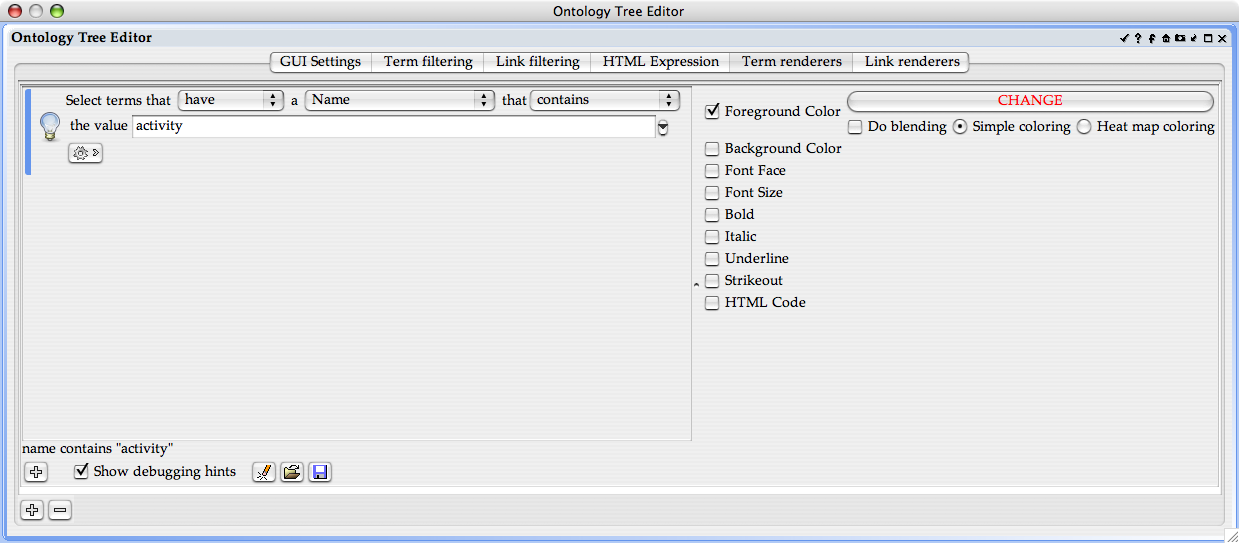
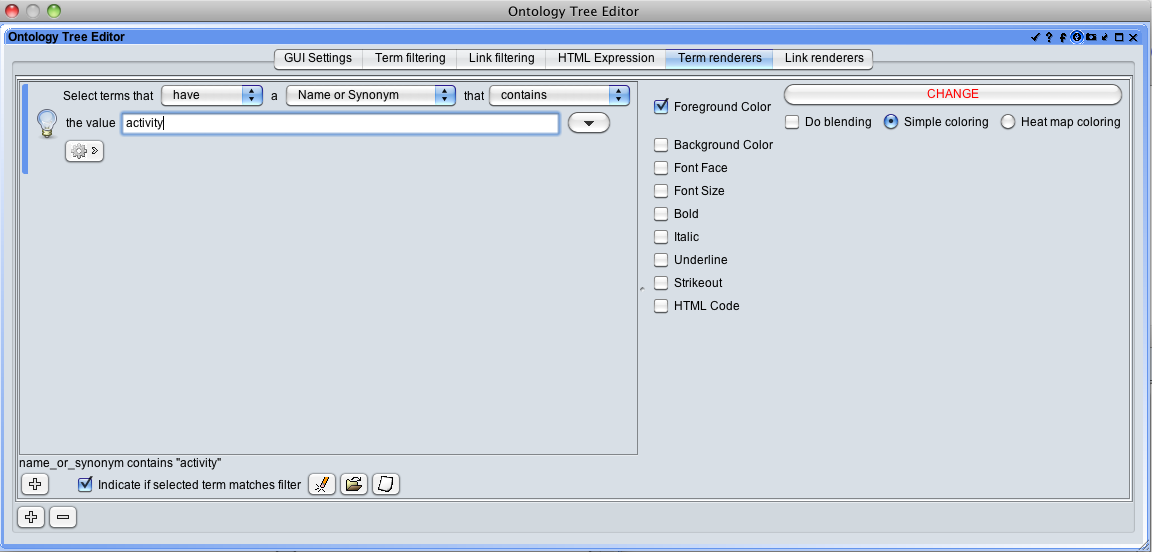
Updates to user guide: - Added user guide page on "Color-coding Multiple Ontologies in the Graph Editor". - Merged redundant "Reasoner Manager" page into "The Reasoner and the Interface" - Added warning about the reasoner and memory; removed descriptions of obsolete reasoners
git-svn-id: svn://svn.code.sf.net/p/geneontology/svn/java/oboedit/trunk@3469 6f0e8829-b336-0410-acfb-cb9b228023ad

Changed region(s): [[0.0, 0.0, 1.0, 1.0]]

diff --git a/docs/html/Configuration_Manager.htm b/docs/html/Configuration_Manager.htm
@@ -24,34 +24,9 @@ is "User Settings".</p>
   <li><strong>Configuration directory</strong> - 
   Displays the path to the OS-appropriate directory that contains your personal OBO-Edit 
   configuration info. This field is not editable; it is for
-  informational purposes only.  You can mouse-select it and copy it to your
-  clipboard to copy elsewhere, if you want.
-<ul><li>
-  <b>Note for Mac users</b>:  your configuration directory will be in
-  ~/Library/Application Support/, e.g., /users/nomi/Library/Application Support/.
-  Because that directory name has a space in it, if you are trying to use it in a shell
-  command (e.g., cd), you will need
-  to put quotes around that path:
-  <code>cd "/users/nomi/Library/Application Support"</code>.
-</li>
-<li><b>Note for Windows XP users</b>:  your configuration directory will be in
-Application Data\OBO-Edit-beta in your home directory.  By default, Windows
-      hides this directory from you.  If you are looking at your Windows
-      directories in Explorer (the usual Windows directory browser), you can
-      get it to show the hidden directories by choosing "Folder Options" from
-      the Tools menu, and selecting the "View" tab.  Under "Advanced
-      settings", select the "Show hidden files and folders" radio button.<br>You
-      can also get to your configuration directory via the Windows command
-      interface by copying and pasting it from the Configuration Manager, and
-      putting quotes around the path because of the spaces in it.
-</li>
-<li><b>Note for Unix users</b>: your configuration directory will be in
-  ~/.oboeditbeta.  If you do "ls ~", you won't see it because file or
-  directory names that start with "."  are
-  hidden by default.  Use "ls -a" if you want to see it in the directory listing.
-</li>
-</ul>    
-  <li><strong>Log file</strong> - The text output from OBO-Edit is saved in
+  informational purposes only.  You can mouse-select the directory path and copy it to your
+  clipboard to paste elsewhere, if you want.
+<li><strong>Log file</strong> - The text output from OBO-Edit is saved in
   this file in your configuration directory.  It can be useful for debugging.
   This field is not editable, but can be copied and pasted elsewhere.</li>
   <li><strong>OBO-Edit memory allocation</strong> (requires restart) - 
@@ -60,9 +35,12 @@ Application Data\OBO-Edit-beta in your home directory.  By default, Windows
   letter M, indicating the number of megabytes of memory that should be 
   allocated. A high value will make OBO-Edit less likely to run out of memory and 
   crash, but will also lessen the amount of memory available to 
-  other programs and may cause OBO-Edit to run slower on some platforms. 
+  other programs and may cause OBO-Edit to run slower on some platforms. On
+  most computers, Java limits the maximum memory allocation to 1860M, so you
+  should generally choose a value lower than that.
   </li>
-  <li><strong>User name</strong> - The user name OBO-Edit should use. This 
+  <li><strong>User name</strong> - The user name OBO-Edit should use when
+  saving your edits. This 
   information is used in the "saved-by" header field when using the <A 
   href="The_OBO_Adapter.htm">OBO adapter</a>.</li>
 </ul>
@@ -88,7 +66,9 @@ relationship type from the list. The icon association editor will appear:</p>
 </p><p><IMG hspace=0 src="../images/config_icons_and_colors.png" border=0></p>
 <p>To pick an image file from the local disk, press the "Browse 
 files" button. To use one of OBO-Edit's built-in icons, press the "Browse 
-built-in icons" button.  The "Icon URL" box will get filled in automatically.</p>
+built-in icons" button.  (Note: it takes a few seconds for OBO-Edit to find
+  and display all the built-in icons.) The "Icon URL" box will get filled in automatically
+  when you choose one of the icons.</p>
 <p>To delete a relationship type icon association, left-click the association 
 and press the "Del" button.</p>
 <p>To add a new relationship type icon association, press the "Add" button. A 
@@ -108,7 +88,7 @@ The new id for <strong>is_a</strong> is <strong>OBO_REL:is_a</strong>.</p>
 </div>
 
 <h3>Changing link color</h3>
-<p>Below the "Browse" buttons is the text "Link color", and the name of the color (e.g. "blue").
+<p>Below the "Browse" buttons is the text "Link color" and the name of the color (e.g., "blue").
 Click on the color name to pop up a color chooser and select a new color for links
 of that particular relationship type.
 As when you select a new icon, the OBO-Edit
@@ -117,8 +97,8 @@ something that changes the display (e.g., click open a node).</p>
 
 <h2>Autosave</h2>
 <ul>
-  <li><strong>Enable autosave</strong> - If this box is checked, autosave will 
-  be enabled. The ontology will be saved periodically in the autosave file
+  <li><strong>Enable autosave</strong> - If this box is checked, OBO-Edit will
+  automatically save backup copies of your work. Your edited ontology will be saved periodically in the autosave file
   path (see next item).  The default is for autosave
   to be enabled; you can turn this off if you prefer.
   <li><strong>Autosave file path</strong> -&nbsp;This&nbsp;field specifies&nbsp;a directory where autosave 
@@ -127,17 +107,24 @@ something that changes the display (e.g., click open a node).</p>
   <li><strong>Autosave files expire in </strong>- The number of days old an 
   autosave file must be before it is automatically deleted.</li>
 </ul>
-<h2><a name="textedit"></a>Text Editing</h2>
 
 <h2>Behavior</h2>
 <ul>
+  <li><strong>Exclude obsolete terms from autocomplete lists</strong> - When
+  you start typing in a search or filter box, a dropdown list of term names
+  appears, including terms (or relations) that include the text you've typed
+  so far.  By default, this list includes terms that have been marked as
+  obsolete.  If you prefer to exclude obsolete terms, check this checkbox.
+  The downside is that the autocomplete lists will take slightly longer to
+  appear (because OBO-Edit has to do extra work, checking each term to see
+  whether it's obsolete or not). </li>
   <li><strong>Case sensitive term sorting</strong> - If this box is checked, the case of a term name will be 
   taken into account when sorting terms. Lower case letters will appear before 
-  upper case letters. 
+  upper case letters. </li>
   <li><strong>Show terms ids as tool tips in term panels</strong> - If this box 
   is checked, the id of a term will appear if the mouse hovers over a term in 
   the <A href="The_Term_Editor_Panel.htm">ontology editor panel</a>. Enabling this feature will make OBO-Edit run slightly slower 
-  on older machines. 
+  on older machines. </li> 
   <li><strong>Allow new cycles to be created</strong> - If this box is checked, OBO-Edit will allow cycles to be 
   created. If it is not checked, OBO-Edit will refuse to allow new cycles to be 
   made. Only enable this option if an ontology requires cycles. Most do not. See 
@@ -161,9 +148,9 @@ something that changes the display (e.g., click open a node).</p>
   <li><strong>Confirm on exit</strong>- If this 
   box is checked, OBO-Edit will ask for confirmation before exiting.</li></ul>
 </ul>
-
+<h2><a name="textedit"></a>Text Editing</h2>
 <ul>
-  <li><strong>Auto commit text edits</strong> - If this box 
+  <li><strong>Autocommit text edits</strong> - If this box 
   is checked, OBO-Edit commits text edits as soon as a new term is selected or 
   the ontology is saved. The user does not have to explicitly commit text edits 
   by pressing a "commit" button.

diff --git a/docs/html/Color_by_Namespace.htm b/docs/html/Color_by_Namespace.htm
@@ -1,0 +1,51 @@
+<!DOCTYPE html PUBLIC "-//W3C//DTD html 3.2//EN">
+<html>
+<head>
+<title></title>
+<link rel="stylesheet" type="text/css" href="../javahelp.css">
+</head>
+<body bgcolor="#ffffff">
+<h1>Color-coding Multiple Ontologies in the Graph Editor</h1>
+<p>Editing an ontology can become confusing when terms from
+other ontologies are referenced. Term names may be similar between ontologies, which can lead to
+inadvertent associations, and 
+it can difficult to distinguish in a graph which term is associated with which ontology. Fortunately, it is possible to use the Term renderers configuration panel
+to color-code the different ontologies in the Graph Editor. The following steps describe how to do this.</p>
+<ol>
+<li> Load an ontology that contains terms from multiple ontologies.</li>
+<li> On the Graph Editor panel, click the wrench icon in the titlebar to open
+the Configure panel.</li>
+<li> Scroll through the tabs with the right arrow button to get to the Term renderers tab.</li>
+<li> Click the + button at the bottom of the panel to create a
+new renderer.</li>
+<li> A filter pops up that looks very similar to the search
+filter.  You might have to expand or maximize the panel to see all the fields.  You may also need to drag the central vertical line to the right to see all the term renderer fields on the left.</li>
+<li> Set the filter to select
+terms that have a namespace that equals the value [insert namespace of
+an ontology].</li>
+<li> Choose "Background Color" on the right side of the panel.</li>
+Your panel should now look like this:
+<P><IMG hspace=0 src="../images/color-by-namespace-term-renderer.png" border=0></P><br />
+<li> Click "Change". A color chooser pops up.  Choose the desired color for this namespace and click the "OK" button.  The color chooser will go away.</li>
+<li> To add another renderer to color-code another ontology, click the + button at the BOTTOM of the panel--the one next to the minus button, NOT the one that's to the left of the checkbox for "Indicate if selected term matches filter".
+<P><IMG hspace=0 src="../images/color-by-namespace-second-term-renderer.png" border=0></P><br />
+<li> When you are done adding a color renderer for each namespace, click the 
+check icon on the right side of the panel's menubar.</li>
+<li> You may need to close the nodes in the Graph Editor (use the right-mouse menu option to Hide all nodes) and reopen them to see the colors.</li>
+</ol>
+<p>
+Here is an example of the Graph Editor showing part of the Gene Ontology colored by namespace (pink for biological_process, green for molecular_function, and blue for cellular_component).</p>
+<P><IMG hspace=0 src="../images/colored-by-namespace.png" border=0></P>
+<p>There are a few things to
+note. OBO-Edit automatically
+assigns the default namespace to ontology terms MIREOTed when they lack an
+assigned namespace. An ontology
+engineer may have to manually assign a new namespace to these terms.  An ontology engineer should also be
+careful when assigning colors to namespaces. Ontology engineers are
+encouraged to consult online resources in choosing color schemes that are
+easily distinguishable and reproduce well both in print and on a computer
+screen.   If done properly, publication-quality figures can be generated with
+OBO-Edit.</p>
+<p>Renderers are set up per component, so if you want to color terms by namespace in the Ontology Tree Editor as well as the Graph Editor, you will need to set up a renderer in the Ontology Tree Editor as well (in the same fashion as described above).  Also note that you can set up term renderers in the Graph Editor but not in the Graph Viewer.
+</body>
+</html>

diff --git a/docs/html/The_Reasoner_Manager.htm b/docs/html/The_Reasoner_Manager.htm
@@ -2,7 +2,7 @@
 <html>
 <head>
 <meta name="GENERATOR" content="Solutionsoft HelpBreeze JavaHelp Edition">
-<title>The Reasoner Plugin</title>
+<title>The Reasoner Manager</title>
 <link rel="stylesheet" type="text/css" href="../javahelp.css">
 </head>
 <body bgcolor="#ffffff">
@@ -10,27 +10,26 @@
 <p>The reasoner is activated and deactivated via the 
 Reasoner Manager.
 You can turn on the reasoner in OBO-Edit by showing the Reasoner Manager ([Reasoner] -> [Reasoner Manager]) and selecting a reasoner from the
-pulldown list.  (Once you make your choice, you can get rid of the Reasoner Manager panel
-and the reasoner selection will stay as you left it.)
-<p>OBO-Edit offers a choice of reasoners.  The current options are
-  ForwardChainingReasoner and LinkPileReasoner.  ForwardChainingReasoner,
-  which was the default reasoner in OBO-Edit before March 2008, is faster but
-  not as complete, and will be phased out.
-LinkPileReasoner is currently
-  very slow, but more complete.
-</P><P>
+pulldown list.  Once you make your choice, you can get rid of the Reasoner Manager panel
+and the reasoner selection will stay as you left it. However, because the
+reasoner uses so much memory, it is generally a good idea to turn it on only
+when you really need it, and turn it off when you're done.  Be sure to save your work
+<b>before</b> you turn on the reasoner, in case OBO-Edit runs out of memory
+and dies.
+<P>
 <div class="sidebar">
 <h1>Wait... Did I Leave the Reasoner On?</h1>
 <hr>
 
-<p>     Like most components, the Reasoner Manager remembers its state when OBO-Edit is exited. This 
+<p>Like most OBO-Edit components, the Reasoner Manager remembers its state when OBO-Edit is exited. This 
 means that if the reasoner is on when you exit OBO-Edit, 
-it will be on the next time you start OBO-Edit.  The entire application runs more slowly when the reasoner is running, so 
-enable it with caution.</p><p>
-When one of the reasoners is turned on, the titlebar of the OBO-Edit window says
-  "(REASONER ON)" as a visual reminder.  The reasoner causes some
-operations in OBO-Edit to take longer, so you may want to turn it off if you
-don't need it.</p>
+it will be on the next time you start OBO-Edit.  The entire application runs
+  more slowly when the reasoner is running, so usually it makes sense to turn
+  off the reasoner before you exit OBO-Edit (you can always turn it back on
+  next time if you need it).
+  </p><p>
+When the reasoner is turned on, the titlebar of the OBO-Edit window says
+  "(REASONER ON)" as a visual reminder.</p>
 </div>
 </body>
 </html>

diff --git a/docs/html/The_Reasoner_and_the_Interface.htm b/docs/html/The_Reasoner_and_the_Interface.htm
@@ -7,23 +7,30 @@
 </HEAD>
 <BODY bgColor=#ffffff>
 <H1>The Reasoner and the Interface</H1>
-<P><a href-"The_OBO_Edit_Reasoner">(This page discusses what a reasoner
+<P><a href-"The_OBO_Edit_Reasoner">(The OBO-Edit Reasoner page discusses what a reasoner
     is.)</a>
 </p><p>
+<h2>The Reasoner Manager</h2>
+The reasoner is activated and deactivated via the Reasoner Manager.
 You can turn on the reasoner in OBO-Edit by showing the Reasoner Manager ([Reasoner] -> [Reasoner Manager]) and selecting a reasoner from the
-pulldown list.  (Once you make your choice, you can get rid of the Reasoner Manager panel
-and the reasoner selection will stay as you left it.)
-<p>OBO-Edit offers a choice of reasoners.  The current options are
-  ForwardChainingReasoner and LinkPileReasoner.  ForwardChainingReasoner,
-  which was the default reasoner in OBO-Edit before March 2008, is faster but
-  not as complete, and will be phased out.  LinkPileReasoner is currently
-  very slow, but more complete.
-</P><P>
-When one of the reasoners is turned on, the titlebar of the OBO-Edit window says
-  "(REASONER ON)" as a visual reminder.  The reasoner causes some
-operations in OBO-Edit to take longer, so you may want to turn it off if you
-don't need it.
-</P><P>
+pulldown list.  Once you make your choice, you can get rid of the Reasoner Manager panel
+However, because the
+reasoner uses so much memory, it is generally a good idea to turn it on only
+when you really need it, and turn it off when you're done.  Be sure to save your work
+<b>before</b> you turn on the reasoner, in case OBO-Edit runs out of memory
+and dies.
+</p>
+<p>Like most OBO-Edit components, the Reasoner Manager remembers its state when OBO-Edit is exited. This 
+means that if the reasoner is on when you exit OBO-Edit, 
+it will be on the next time you start OBO-Edit.  The entire application runs
+  more slowly when the reasoner is running, so usually it makes sense to turn
+  off the reasoner before you exit OBO-Edit (you can always turn it back on
+  next time if you need it).
+  </p><p>
+When the reasoner is turned on, the titlebar of the OBO-Edit window says
+  "(REASONER ON)" as a visual reminder.</p>
+<p>
+<H2>Implied Links<A name=implied_links></A></H2>
 The reasoner changes the way the 
 ontology is displayed in the ontology editor panel. 
 Some of the implied links 

diff --git a/docs/html/Rendering.htm b/docs/html/Rendering.htm
@@ -8,15 +8,15 @@
 <BODY bgColor=#ffffff>
 <H1>Rendering</H1>
 <P>Rendering allows a user to specify special colors, fonts, 
-and other visual effects to terms in a ontology editor panel that match a particular 
-filter.</P>
-
-<p>Renderers can be applied in any Ontology Tree Editor or Graph
-Editor panel, and each panel can have different renderers.</p>
+and other visual effects that will be applied to terms in a ontology editor panel that match a particular 
+filter. Renderers can be applied in any Ontology Tree Editor or Graph
+Editor panel, and each panel can have different renderers.  See <a
+href="Color_by_Namespace.htm">the page about coloring by namespace</a> for an
+example of how to use rendering.</p>
 
 <p> To create a new renderer, click the wrench icon on the panel where
 you want the rendering effects to appear. Choose the "Term Renderers"
-or "Link Renderers" tab. Click the <img src="../images/plus.png"
+or "Link Renderers" tab. Click the <img valign="center" src="../images/plus.png"
 alt="" border=0> button to bring up a filter panel, then specify the
 filter criteria or load a saved filter (see <a
 href="Building_a_Filter.htm">Building Filters</a> for how to do
@@ -188,5 +188,6 @@ configuration screen, and choose the "Term Renderers" or "Link
 Renderers" tab. Select the renderer you want to remove, and click
 the <img src="../images/minus.png" alt="" border=0> button to remove
 it. Click the check mark to finish and exit configuration.</p>
+<br>
 </BODY>
 </html>

diff --git a/docs/html/The_OBO_Edit_Reasoner.htm b/docs/html/The_OBO_Edit_Reasoner.htm
@@ -21,7 +21,14 @@ Interface</A> for instructions on how to turn the reasoner on (or off) and how i
 non-redundant ontology encodes a lot of implicit information, so the reasoner 
 can use a lot of memory as it makes this implicit information explicit. See <A 
 href="Configuration_Manager.htm">The Configuration Manager</A> for information 
-about how to increase the memory available to OBO-Edit.</P>
+about how to increase the memory available to OBO-Edit.
+</P><p>Even with the maximum allowable memory setting (currently, 1860M),
+using the reasoner on large ontologies may cause OBO-Edit to use up all of the
+memory.  It's generally best to use the reasoner only when you specifically
+need to, and to turn it off otherwise. Also, be sure to save your work
+<b>before</b> you turn on the reasoner, in case OBO-Edit runs out of memory
+and dies.
+</P>
 <H2>Reasoner Rules</H2>
 <P>This section documents all the rules OBO-Edit uses for 
 reasoning. Realize that all these rules interact. If an implied link is 

diff --git a/docs/html/Building_a_Filter.htm b/docs/html/Building_a_Filter.htm
@@ -197,10 +197,14 @@ There are three possible values for the search aspect:</p>
 The default behavior. Only the current term is examined.</div>
   <li>
 <div><strong>Ancestor</strong>       - Instead of the current 
-term itself, examine the ancestors of the current term.</div>
+term itself, examine the ancestors of the current term.
+<b>Note:</b> May require the reasoner to be turned on.
+</div>
   <li>
 <div><strong>Descendant</strong>       - Instead of the current 
-term itself, examine the descendants of the current term.</div>
+term itself, examine the descendants of the current term.
+<b>Note:</b> May require the reasoner to be turned on.
+</div>
 <div><strong>Parent</strong>       - Instead of the current 
 term itself, examine the parents of the current term.</div></li></ul>
 <p>To demonstrate how aspects work, let's consider a really simple 

diff --git a/docs/index.html b/docs/index.html
@@ -563,12 +563,6 @@
 		
 <table border="0" cellpadding="0" cellspacing="0" width="100%">
 <tr>
-<td valign="baseline" width="15"><img src="page.gif" width="11" height="11" hspace="3"></td><td valign="top" width="100%"><font face="Arial" size="2"><a href="html/The_Reasoner_Manager.htm" target="bodyframe">The Reasoner Manager</a></font></td>
-</tr>
-</table>
-		
-<table border="0" cellpadding="0" cellspacing="0" width="100%">
-<tr>
 <td valign="baseline" width="15"><img src="page.gif" width="11" height="11" hspace="3"></td><td valign="top" width="100%"><font face="Arial" size="2"><a href="html/The_Explanation_Plugin.htm" target="bodyframe">Showing Explanations</a></font></td>
 </tr>
 </table>

diff --git a/docs/html/Working_with_Namespaces.htm b/docs/html/Working_with_Namespaces.htm
@@ -39,6 +39,12 @@ when the "Save Changes" button is pressed. If a namespace must be deleted, first
 is not in use.</p>
 <h2>Adding a New Namespace</h2>
 <p>To add a new namespace, click the "Add" button. A new namespace will be 
-created with the default id "&lt;new namespace id&gt;". Edit the id as described above.</p>
+created with the default id "&lt;new namespace id&gt;". Edit the id as
+described above.</p>
+<h2>Coloring Terms by Namespace</h2>
+<p>See <a
+href="Color_by_Namespace.htm">this page about creating a renderer to color
+terms by namespace</a>.</p>
+<br>
 </body>
 </html>
